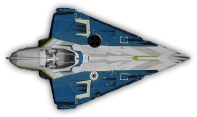
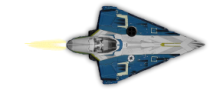
enemy sprites added

diff --git a/javascript/enemy/enemy1.js b/javascript/enemy/enemy1.js
@@ -8,7 +8,7 @@ export default class Enemy1 {
     this.width = 150;
     this.height = 150;
     this.speed = 0.2;
-    this.enemyImageClass = new EnemySpriteAnimation("enemy1-?.png", 1, 10);
+    this.enemyImageClass = new EnemySpriteAnimation("enemy2-?.png", 2, 5);
   }
 
   draw(ctx) {

diff --git a/javascript/bullet/bulletController.js b/javascript/bullet/bulletController.js
@@ -10,7 +10,6 @@ export default class BulletController {
       //hit bullet = bullets.push
       if (this.bullets.length < 9) {
         //main work of this function
-
         this.bullets.push(new Bullet1(x, y, bulletSpeed, harmLevel));
       }
       //this will delay bullet}

diff --git a/javascript/player/Player.js b/javascript/player/Player.js
@@ -63,7 +63,7 @@ export default class Player {
   }
 
   shootBullet() {
-    let speed = 5;
+    let speed = 7;
     let delayBetnBullets = 8;
     let damage = 2;
     let xcordBullet = this.x - 9;

diff --git a/javascript/main.js b/javascript/main.js
@@ -49,7 +49,7 @@ function gameLoop() {
 
 setInterval(() => {
   gameLoop();
-}, 1000 / 10);
+}, 1000 / 60);
 
 // ctx.fillStyle = "red";
 // ctx.fillRect(0, 0, 1000, 500);
